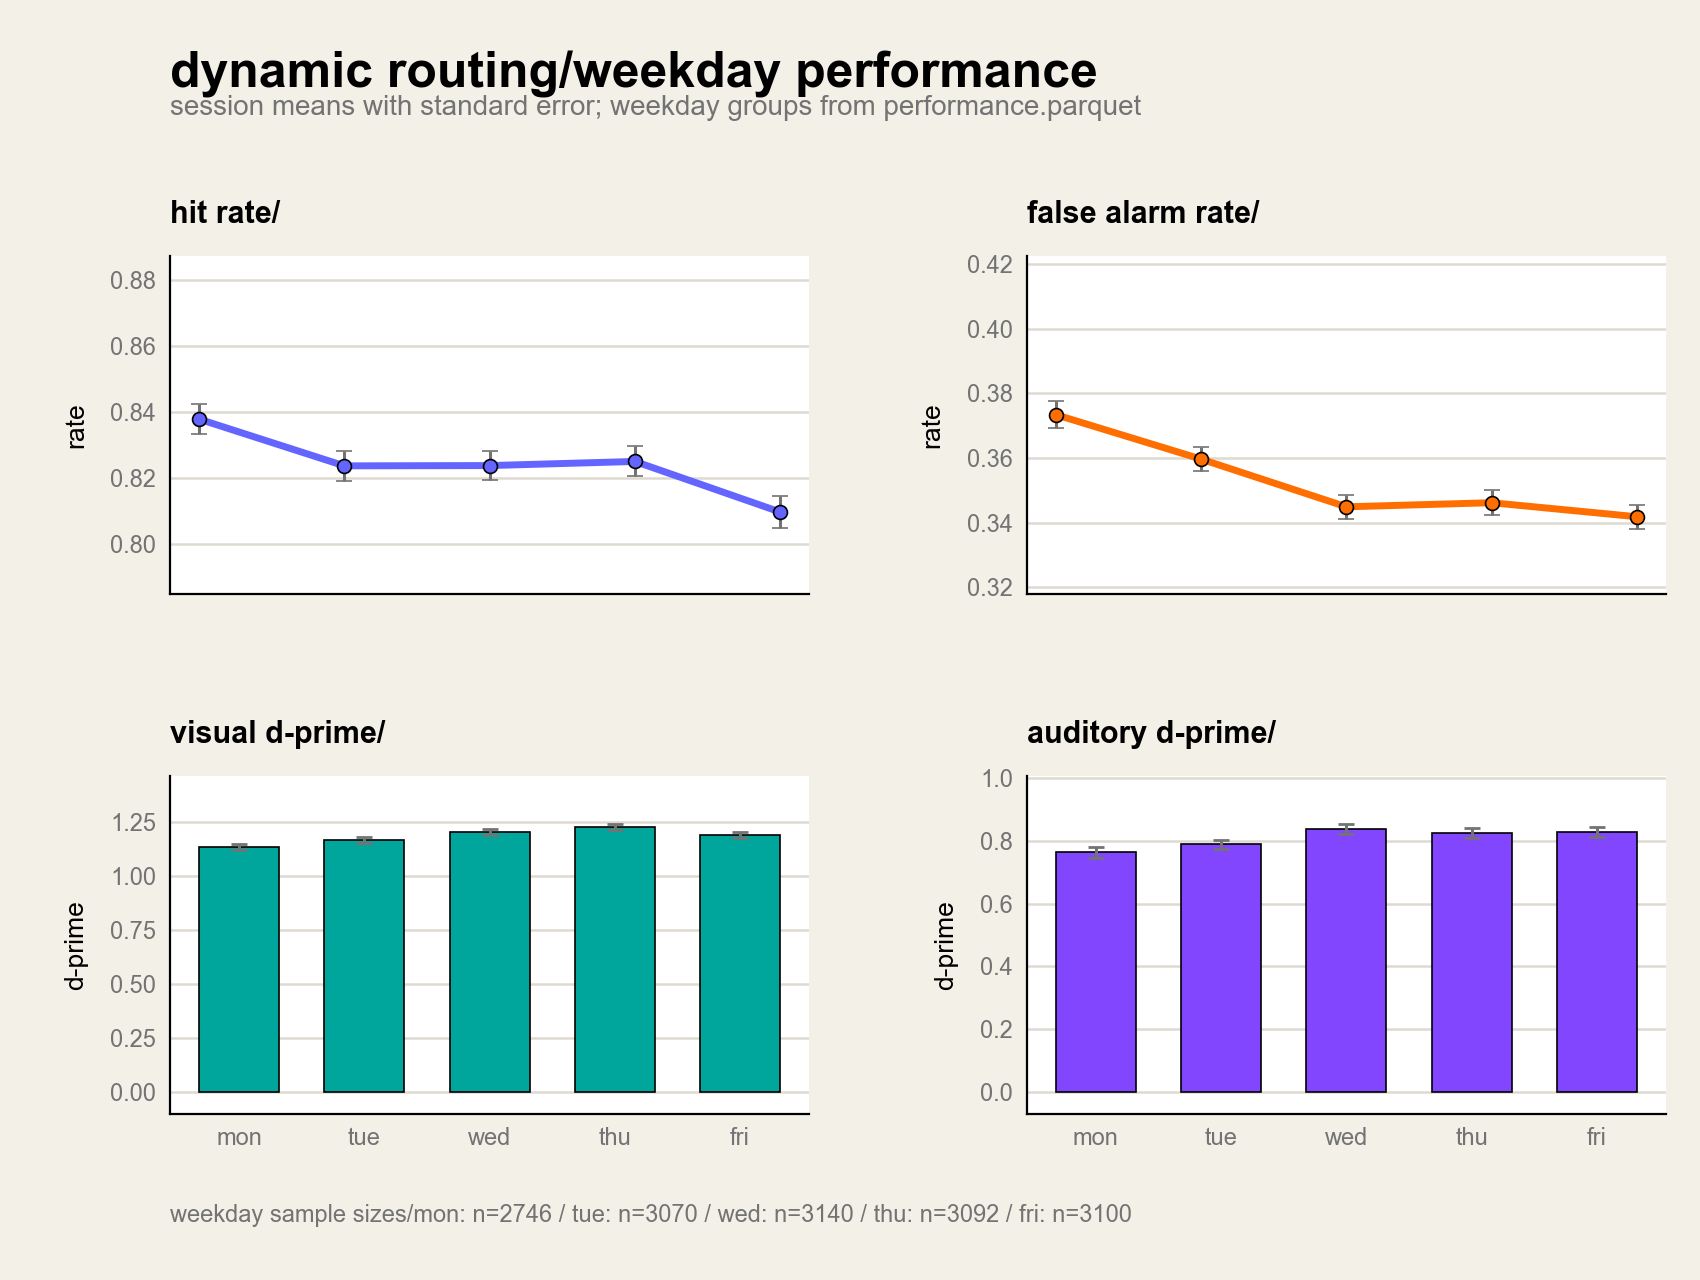
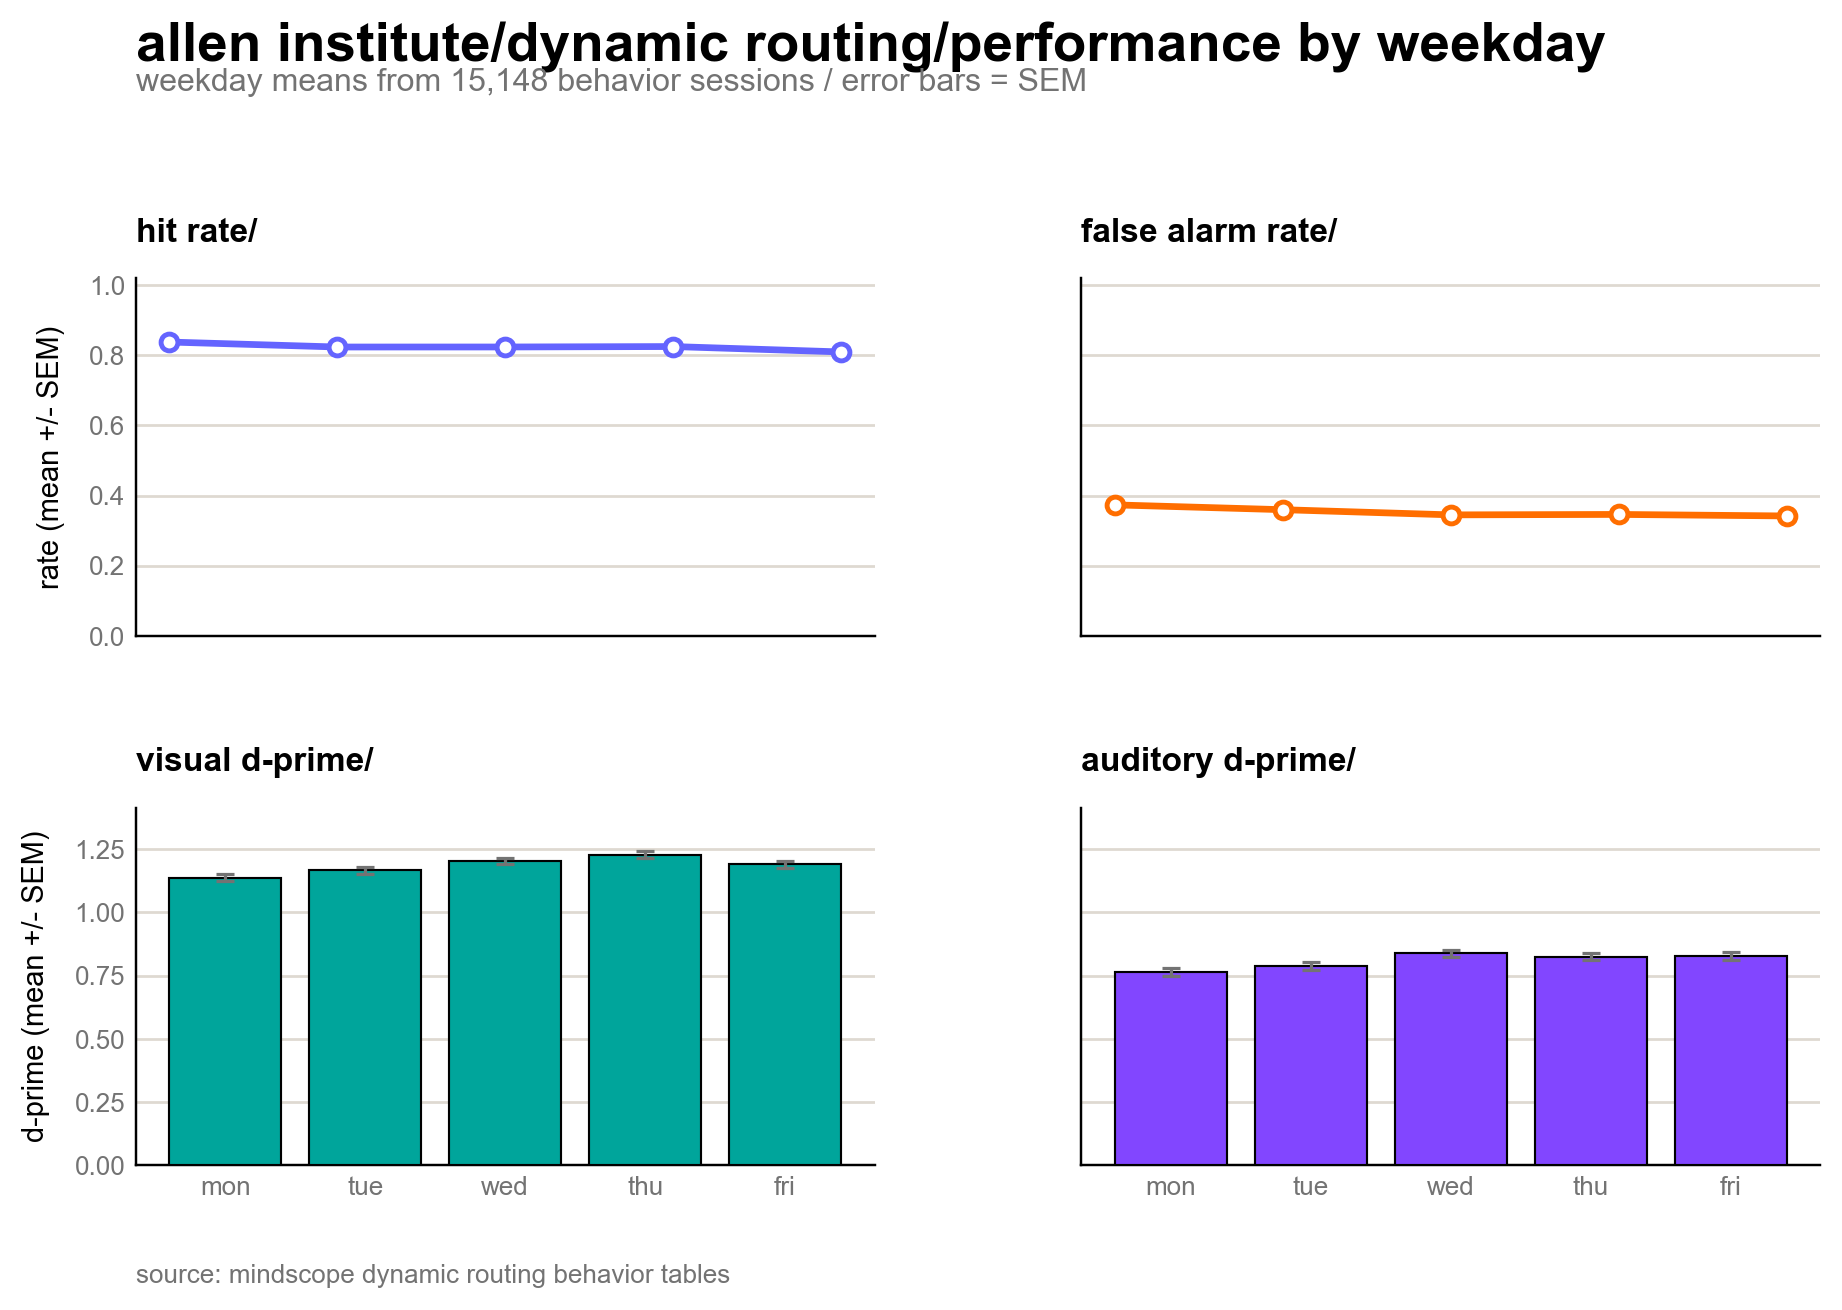
Record Allen priority order benchmark attempt

diff --git a/.autoresearch/mod_plot.py b/.autoresearch/mod_plot.py
@@ -21,6 +21,14 @@ SOURCE = Path(
 OUT_DIR = Path(__file__).resolve().parent
 FIGURE_PATH = OUT_DIR / "plot.png"
 
+PLOTS = (
+    ("hit_rate", "line"),
+    ("false_alarm_rate", "line"),
+    ("vis_dprime", "bar"),
+    ("aud_dprime", "bar"),
+)
+METRICS = tuple(metric for metric, _ in PLOTS)
+
 ALLEN = {
     "black": "#000000",
     "white": "#FFFFFF",
@@ -39,57 +47,60 @@ ALLEN = {
     "yellow": "#FFEB23",
 }
 ALLEN_SERIES = [
-    ALLEN[key]
-    for key in ("blue", "orange", "teal", "violet", "green", "rose", "maroon")
+    ALLEN[k]
+    for k in ("blue", "orange", "teal", "violet", "green", "rose", "maroon")
 ]
-INSTALLED_FONTS = {font.name for font in font_manager.fontManager.ttflist}
-ALLEN_FONT = next(
-    (
-        font
-        for font in (
-            "Allen Institute Text",
-            "Allen Institute",
-            "Arial",
-            "Segoe UI",
-            "Bahnschrift",
-            "Calibri",
-            "DejaVu Sans",
-        )
-        if font in INSTALLED_FONTS
-    ),
-    "DejaVu Sans",
-)
+PLOT_COLORS = {
+    "hit_rate": ALLEN["blue"],
+    "false_alarm_rate": ALLEN["orange"],
+    "vis_dprime": ALLEN["teal"],
+    "aud_dprime": ALLEN["violet"],
+}
+PLOT_TITLES = {
+    "hit_rate": "hit rate/",
+    "false_alarm_rate": "false alarm rate/",
+    "vis_dprime": "visual d-prime/",
+    "aud_dprime": "auditory d-prime/",
+}
 
-PLOTS = (
-    ("hit_rate", "line", "hit rate/", "rate", ALLEN["blue"]),
-    ("false_alarm_rate", "line", "false alarm rate/", "rate", ALLEN["orange"]),
-    ("vis_dprime", "bar", "visual d-prime/", "d-prime", ALLEN["teal"]),
-    ("aud_dprime", "bar", "auditory d-prime/", "d-prime", ALLEN["violet"]),
-)
-METRICS = tuple(metric for metric, *_ in PLOTS)
+
+def resolve_font() -> str:
+    installed_fonts = {font.name for font in font_manager.fontManager.ttflist}
+    return next(
+        (
+            font
+            for font in (
+                "Allen Institute Text",
+                "Allen Institute",
+                "Arial",
+                "Segoe UI",
+                "Bahnschrift",
+                "Calibri",
+                "DejaVu Sans",
+            )
+            if font in installed_fonts
+        ),
+        "DejaVu Sans",
+    )
 
 
 def apply_allen_style() -> None:
     plt.rcParams.update(
         {
-            "figure.facecolor": ALLEN["page1"],
+            "figure.facecolor": ALLEN["white"],
             "axes.facecolor": ALLEN["white"],
             "axes.edgecolor": ALLEN["black"],
             "axes.labelcolor": ALLEN["black"],
+            "axes.titleweight": "bold",
             "xtick.color": ALLEN["gray2"],
             "ytick.color": ALLEN["gray2"],
             "grid.color": ALLEN["page2"],
+            "grid.linewidth": 0.9,
             "text.color": ALLEN["black"],
             "axes.prop_cycle": cycler(color=ALLEN_SERIES),
-            "font.family": ALLEN_FONT,
-            "axes.titleweight": "bold",
-            "axes.titlesize": 11,
-            "axes.labelsize": 9.5,
-            "xtick.labelsize": 8.5,
-            "ytick.labelsize": 8.5,
-            "legend.fontsize": 8.5,
-            "savefig.facecolor": ALLEN["page1"],
-            "savefig.edgecolor": ALLEN["page1"],
+            "font.family": resolve_font(),
+            "font.size": 9.5,
+            "savefig.facecolor": ALLEN["white"],
         }
     )
 
@@ -112,7 +123,7 @@ def load_session_summary() -> pl.DataFrame:
         )
         .with_columns(
             pl.col("session_date").dt.weekday().alias("weekday_num"),
-            pl.col("session_date").dt.strftime("%a").alias("weekday"),
+            pl.col("session_date").dt.strftime("%a").str.to_lowercase().alias("weekday"),
         )
         .collect()
     )
@@ -141,76 +152,58 @@ def summarize_by_weekday(sessions: pl.DataFrame) -> pl.DataFrame:
                 for metric in METRICS
             ]
         )
+        .with_columns(
+            *[pl.col(f"{metric}_sem").fill_null(0.0) for metric in METRICS]
+        )
         .sort("weekday_num")
     )
     return summary
 
 
-def padded_limits(values: list[float], errors: list[float], *, zero_floor: bool) -> tuple[float, float]:
-    lower = min(value - error for value, error in zip(values, errors, strict=True))
-    upper = max(value + error for value, error in zip(values, errors, strict=True))
-    if zero_floor:
-        lower = min(0.0, lower)
-    span = max(upper - lower, 0.25)
-    return lower - (span * 0.08), upper + (span * 0.18)
-
-
-def metric_values(summary: pl.DataFrame, metric: str) -> tuple[list[float], list[float]]:
-    values = summary[f"{metric}_mean"].fill_null(0).to_list()
-    errors = summary[f"{metric}_sem"].fill_null(0).to_list()
-    return values, errors
-
-
-def style_axis(ax: plt.Axes, title: str, ylabel: str, *, show_x_labels: bool) -> None:
-    ax.set_title(title, loc="left", pad=12)
-    ax.set_ylabel(ylabel, labelpad=8)
-    ax.grid(axis="y", linewidth=0.9)
-    ax.grid(axis="x", visible=False)
+def style_axis(ax: plt.Axes, *, show_bottom_labels: bool) -> None:
+    ax.grid(True, axis="y")
+    ax.grid(False, axis="x")
     ax.spines["top"].set_visible(False)
     ax.spines["right"].set_visible(False)
     ax.spines["left"].set_color(ALLEN["black"])
     ax.spines["bottom"].set_color(ALLEN["black"])
-    ax.tick_params(axis="both", length=0, pad=5)
-    ax.tick_params(axis="x", labelbottom=show_x_labels)
+    ax.tick_params(axis="both", length=0, labelsize=8.5)
+    ax.tick_params(axis="x", labelbottom=show_bottom_labels)
+
+
+def metric_extent(summary: pl.DataFrame, metrics: tuple[str, ...]) -> tuple[float, float]:
+    lows: list[float] = []
+    highs: list[float] = []
+    for metric in metrics:
+        values = summary[f"{metric}_mean"].to_list()
+        errors = summary[f"{metric}_sem"].to_list()
+        lows.extend(value - error for value, error in zip(values, errors, strict=True))
+        highs.extend(value + error for value, error in zip(values, errors, strict=True))
+
+    return min(lows), max(highs)
 
 
 def make_plot(summary: pl.DataFrame) -> None:
     apply_allen_style()
 
     x = list(range(summary.height))
-    weekday_labels = [weekday.lower() for weekday in summary["weekday"].to_list()]
-    session_counts = summary["n_sessions"].to_list()
-
-    fig, axes = plt.subplots(2, 2, figsize=(8.5, 6.4))
+    weekdays = summary["weekday"].to_list()
+    fig, axes = plt.subplots(2, 2, figsize=(8.8, 6.3), sharey="row")
     fig.subplots_adjust(
-        left=0.10,
+        left=0.11,
         right=0.98,
-        bottom=0.13,
-        top=0.80,
-        hspace=0.54,
-        wspace=0.34,
-    )
-    fig.suptitle(
-        "dynamic routing/weekday performance",
-        x=0.10,
-        y=0.96,
-        ha="left",
-        fontsize=18,
-        fontweight="bold",
-    )
-    fig.text(
-        0.10,
-        0.91,
-        "session means with standard error; weekday groups from performance.parquet",
-        ha="left",
-        fontsize=10,
-        color=ALLEN["gray2"],
+        bottom=0.14,
+        top=0.78,
+        hspace=0.48,
+        wspace=0.28,
     )
 
-    for index, (ax, plot_config) in enumerate(zip(axes.flat, PLOTS, strict=True)):
-        metric, plot_type, title, ylabel, color = plot_config
-        values, errors = metric_values(summary, metric)
-        show_x_labels = index >= 2
+    for index, (ax, (metric, plot_type)) in enumerate(
+        zip(axes.flat, PLOTS, strict=True)
+    ):
+        values = summary[f"{metric}_mean"].to_list()
+        errors = summary[f"{metric}_sem"].to_list()
+        color = PLOT_COLORS[metric]
 
         if plot_type == "line":
             ax.errorbar(
@@ -218,14 +211,14 @@ def make_plot(summary: pl.DataFrame) -> None:
                 values,
                 yerr=errors,
                 color=color,
-                ecolor=ALLEN["gray2"],
-                elinewidth=1.1,
-                capsize=3,
-                linewidth=2.5,
+                ecolor=ALLEN["gray1"],
                 marker="o",
-                markersize=5,
-                markeredgecolor=ALLEN["black"],
-                markeredgewidth=0.6,
+                markersize=5.5,
+                markerfacecolor=ALLEN["white"],
+                markeredgewidth=1.6,
+                linewidth=2.2,
+                elinewidth=1.15,
+                capsize=3,
                 zorder=3,
             )
         else:
@@ -235,33 +228,59 @@ def make_plot(summary: pl.DataFrame) -> None:
                 yerr=errors,
                 color=color,
                 edgecolor=ALLEN["black"],
-                linewidth=0.6,
-                width=0.64,
+                linewidth=0.7,
                 error_kw={
                     "ecolor": ALLEN["gray2"],
-                    "elinewidth": 1.1,
+                    "elinewidth": 1.05,
                     "capsize": 3,
+                    "capthick": 1.05,
                 },
                 zorder=3,
             )
 
-        ax.set_xticks(x, weekday_labels)
-        style_axis(ax, title, ylabel, show_x_labels=show_x_labels)
-        ax.set_ylim(*padded_limits(values, errors, zero_floor=plot_type == "bar"))
+        ax.set_title(PLOT_TITLES[metric], loc="left", fontsize=11, pad=12)
+        ax.set_xticks(x, weekdays)
+        style_axis(ax, show_bottom_labels=index >= 2)
 
-    count_note = " / ".join(
-        f"{day}: n={count}" for day, count in zip(weekday_labels, session_counts, strict=True)
+    axes[0, 0].set_ylim(0, 1.02)
+    axes[0, 1].set_ylim(0, 1.02)
+    dprime_low, dprime_high = metric_extent(summary, ("vis_dprime", "aud_dprime"))
+    dprime_upper = dprime_high * 1.14 if dprime_high > 0 else 1
+    axes[1, 0].set_ylim(min(0, dprime_low * 1.08), dprime_upper)
+    axes[1, 1].set_ylim(min(0, dprime_low * 1.08), dprime_upper)
+
+    axes[0, 0].set_ylabel("rate (mean +/- SEM)", labelpad=8)
+    axes[1, 0].set_ylabel("d-prime (mean +/- SEM)", labelpad=8)
+    for ax in axes[:, 1]:
+        ax.tick_params(axis="y", labelleft=False)
+
+    total_sessions = int(summary["n_sessions"].sum())
+    fig.suptitle(
+        "allen institute/dynamic routing/performance by weekday",
+        x=0.11,
+        y=0.965,
+        ha="left",
+        fontsize=18,
+        fontweight="bold",
     )
     fig.text(
-        0.10,
-        0.045,
-        f"weekday sample sizes/{count_note}",
+        0.11,
+        0.915,
+        f"weekday means from {total_sessions:,} behavior sessions / error bars = SEM",
+        ha="left",
+        fontsize=10.5,
+        color=ALLEN["gray2"],
+    )
+    fig.text(
+        0.11,
+        0.055,
+        "source: mindscope dynamic routing behavior tables",
         ha="left",
         fontsize=8.5,
         color=ALLEN["gray2"],
     )
 
-    fig.savefig(FIGURE_PATH, dpi=200)
+    fig.savefig(FIGURE_PATH, dpi=220, bbox_inches="tight")
     plt.close(fig)
 
 
